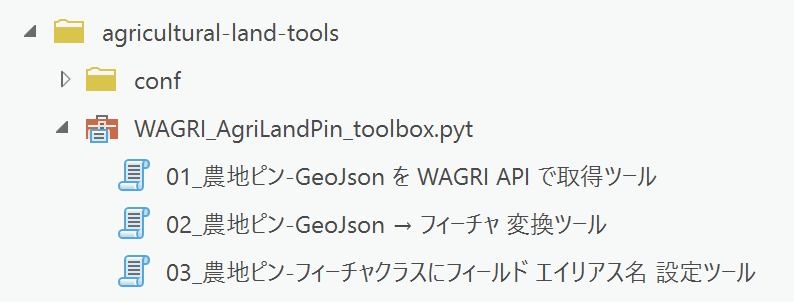
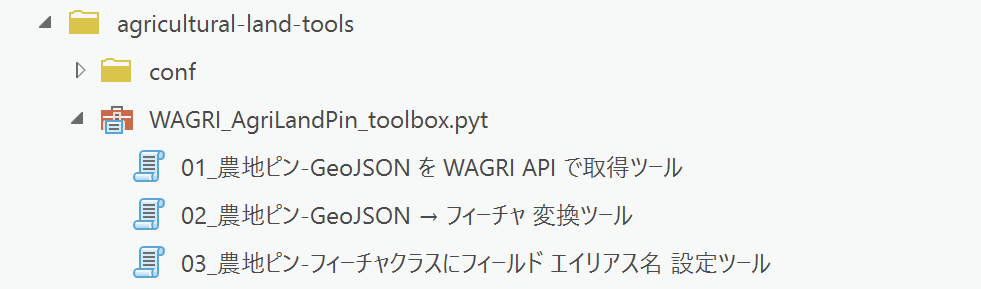
表記を"GeoJSON"に統一

diff --git a/README.md b/README.md
@@ -10,13 +10,13 @@
 
 ![AgriLandPin-toolbox](./image/agrilandpin-toolbox.png)
 
-* **[01_農地ピン-GeoJson を WAGRI API で取得ツール]**
-WAGRI運営事務局が提供している農地APIの「[農地ピン情報取得API：SearchByCityCode](https://wagri.naro.go.jp/wagri_api/agriculturalland-searchbycitycode/)」を利用して、指定した市区町村の農地ピン情報をGeojson 形式のファイルとしてダウンロードするツールです。  
+* **[01_農地ピン-GeoJSON を WAGRI API で取得ツール]**
+WAGRI運営事務局が提供している農地APIの「[農地ピン情報取得API：SearchByCityCode](https://wagri.naro.go.jp/wagri_api/agriculturalland-searchbycitycode/)」を利用して、指定した市区町村の農地ピン情報をGeoJSON 形式のファイルとしてダウンロードするツールです。  
 ※1: 本ツールを利用するには、予め、WAGRIの「データ利用・提供会員」のプランに加入し、**[conf]** フォルダー下の **wagri_config.ini** ファイルに `id` `secret` を設定して頂く必要があります。WAGRIの「データ利用・提供会員」のプランの詳細は、[WAGRIの利用料金](https://wagri.naro.go.jp/about_wagri/fee/) や [利用申請](https://wagri.naro.go.jp/about_wagri/terms/) をご参照ください。
 ※2: 本ツールで一覧に出てくる市区町村は、**[conf]** フォルダー下の **city_code.csv** ファイルでカスタマイズ可能です。カスタマイズする場合は、csvファイルのヘッダー情報（code,name）はそのまま残し、2行目以降を書き換えてご利用ください。なお、code の値は 5桁 で定義する必要がありますのでご注意ください。  
 
-* **[02_農地ピン-GeoJson → フィーチャ 変換ツール]**
-農地ピンの Geojson 形式のファイルを ArcGIS のフィーチャクラス に変換するツールで、複数の Geojson 形式のファイルを指定可能です。  
+* **[02_農地ピン-GeoJSON → フィーチャ 変換ツール]**
+農地ピンの GeoJSON 形式のファイルを ArcGIS のフィーチャクラス に変換するツールで、複数の GeoJSON 形式のファイルを指定可能です。  
 
 * **[03_農地ピン-フィーチャクラスにフィールド エイリアス名 設定ツール]**
 農地ピンのフィーチャクラスに、フィールド エイリアス名を設定するツールで、複数のフィーチャクラスを指定可能です。  
